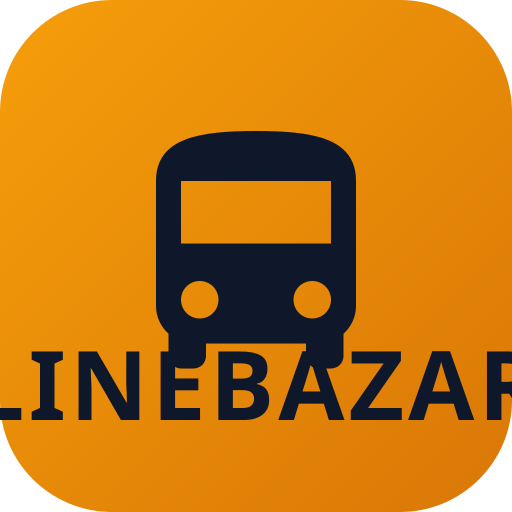
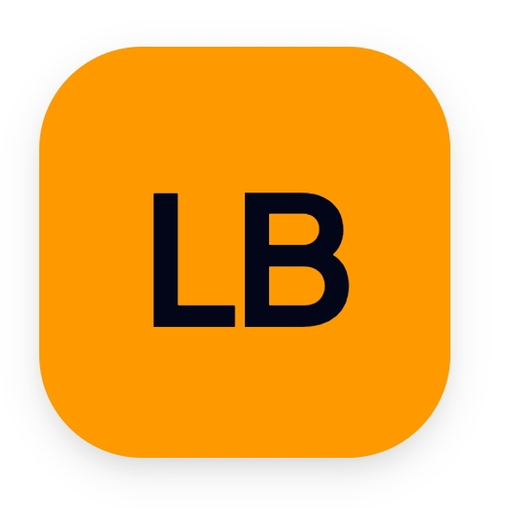
build: add PWA support and configure assets
- Install vite-plugin-pwa and sharp
- Update header with application logo
- Add required PWA manifest icons

diff --git a/src/components/common/Header.tsx b/src/components/common/Header.tsx
@@ -64,9 +64,11 @@ export const Header: React.FC<HeaderProps> = ({
           onClick={() => setActiveTab('passenger')}
           className="text-xl font-bold tracking-tight text-slate-900 flex items-center gap-2 text-left whitespace-nowrap shrink-0 hover:opacity-90 transition-opacity"
         >
-          <span className="w-8 h-8 rounded-lg bg-amber-500 text-slate-950 font-black flex items-center justify-center text-sm shadow-sm">
-            LB
-          </span>
+          <img
+            src="/logo.jpeg"
+            alt="Linebazar Logo"
+            className="w-8 h-8 rounded-lg object-cover shadow-sm border border-amber-300"
+          />
           <span>Linebazar</span>
         </button>
 
